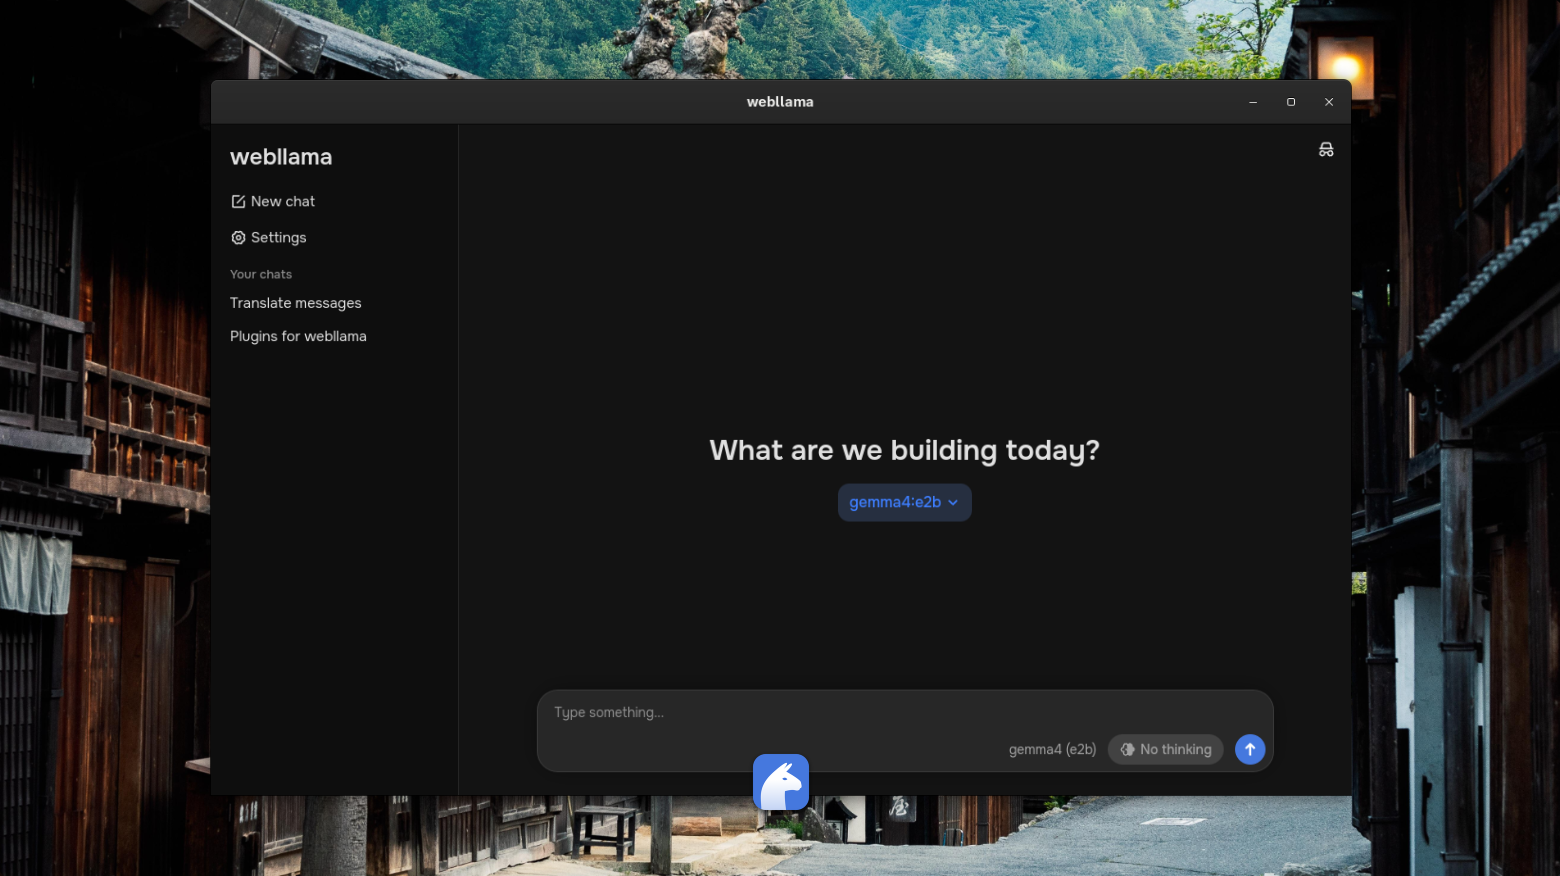
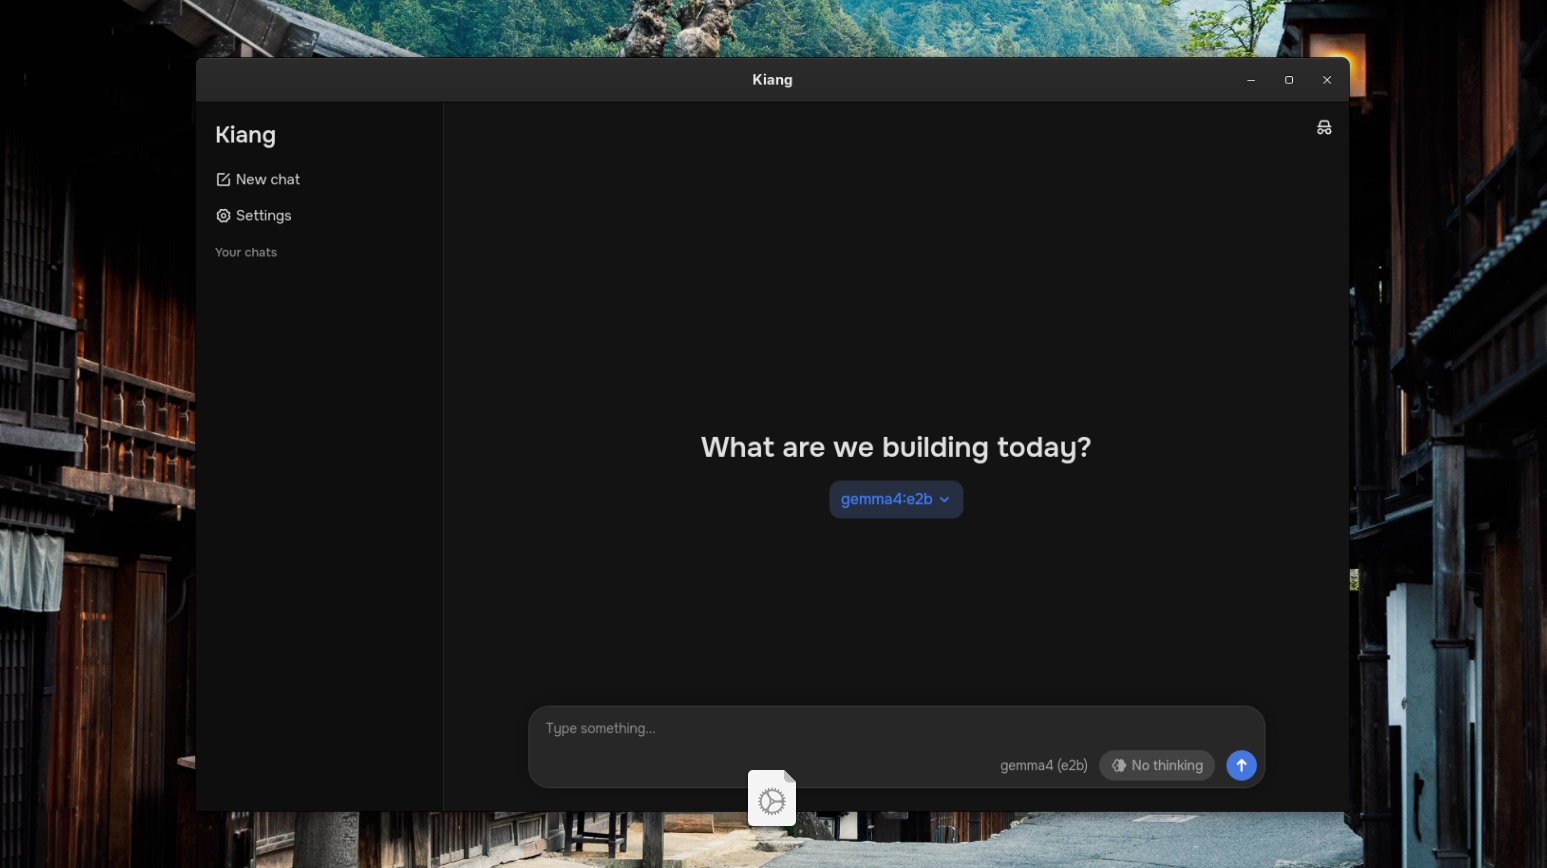
chore: project rename (#21)
Now the project is called "Kiang"

diff --git a/src/utils/http.ts b/src/utils/http.ts
@@ -2,7 +2,7 @@ import { fetch } from '@tauri-apps/plugin-http'
 import { IS_TAURI } from './runtime'
 
 /**
- * Use this feature for all HTTP requests in webllama. 
+ * Use this feature for all HTTP requests in kiang. 
  * - In a browser, it calls `window.fetch`; 
  * - in a Tauri environment, it uses the `http-tauri` plugin.
  * 

diff --git a/index.html b/index.html
@@ -3,7 +3,8 @@
   <head>
     <meta charset="UTF-8" />
     <meta name="viewport" content="width=device-width, initial-scale=1.0" />
-    <title>webllama</title>
+    <title>Kiang</title>
+    <link rel="icon" href="/src-tauri/icons/icon.ico" type="image/x-icon">
   </head>
   <body>
     <div id="app"></div>

diff --git a/src/components/ChatsBar.vue b/src/components/ChatsBar.vue
@@ -37,7 +37,7 @@ function openSettings() {
 <template>
     <div class="chats-bar">
         <div>
-            <h2 class="title">webllama</h2>
+            <h2 class="title">Kiang</h2>
             <div class="chat-bar-menu">
                 <div 
                     v-for="(button, index) in menuButtons"

diff --git a/README.md b/README.md
@@ -1,24 +1,24 @@
 <div align="center">
 
-<img src="./src-tauri/icons/128x128@2x.png" alt="webllama" width="112" height="112">
+<img src="./src-tauri/icons/128x128@2x.png" alt="Kiang" width="112" height="112">
 
-# webllama
+# Kiang WebUI
 
-![GitHub Repo stars](https://img.shields.io/github/stars/kirillmelcin96/webllama)
-![GitHub forks](https://img.shields.io/github/forks/kirillmelcin96/webllama)
-![GitHub watchers](https://img.shields.io/github/watchers/kirillmelcin96/webllama)
+![GitHub Repo stars](https://img.shields.io/github/stars/kirillmelcin96/kiang)
+![GitHub forks](https://img.shields.io/github/forks/kirillmelcin96/kiang)
+![GitHub watchers](https://img.shields.io/github/watchers/kirillmelcin96/kiang)
 
-![GitHub package.json version](https://img.shields.io/github/package-json/v/kirillmelcin96/webllama)
-![GitHub repo size](https://img.shields.io/github/repo-size/kirillmelcin96/webllama)
+![GitHub package.json version](https://img.shields.io/github/package-json/v/kirillmelcin96/kiang)
+![GitHub repo size](https://img.shields.io/github/repo-size/kirillmelcin96/kiang)
 
-![GitHub License](https://img.shields.io/github/license/kirillmelcin96/webllama)
-![GitHub last commit](https://img.shields.io/github/last-commit/kirillmelcin96/webllama)
-![Libraries.io dependency status for GitHub repo](https://img.shields.io/librariesio/github/kirillmelcin96/webllama)
+![GitHub License](https://img.shields.io/github/license/kirillmelcin96/kiang)
+![GitHub last commit](https://img.shields.io/github/last-commit/kirillmelcin96/kiang)
+<!-- ![Libraries.io dependency status for GitHub repo](https://img.shields.io/librariesio/github/kirillmelcin96/kiang) -->
 </div>
 
-**webllama** is a self-hosted web interface for Ollama local AI. Written in Vue.js. 
+**Kiang** is a user-friendly web interface for working with local models via the Ollama API. Written in Vue.js. 
 
-You can run **webllama** in your browser or as a standalone app (for Windows, MacOS and Linux). See the [Installation](#installation) section for all available options.
+You can run **Kiang** in your browser or as a standalone app (for Windows, MacOS and Linux). See the [Installation](#installation) section for all available options.
 
 Free and open source.
 
@@ -40,14 +40,15 @@ Free and open source.
 - [Is it vibecoded?](#is-it-a-vibecoded-app)
 - [Feedback](#feedback)
 - [License](#license)
+- [Disclaimer](#disclaimer)
 
 ## Overview
 
-**webllama** is built with Vite + Vue 3. It runs right in your browser. **webllama** can automatically detect and connect to Ollama right out of the box.
+**Kiang** is built with Vite + Vue 3. It runs right in your browser. **Kiang** can automatically detect and connect to Ollama API right out of the box.
 
-Your chats are stored directly in your browser using IndexedDB, allowing **webllama** to persist your conversation history locally without relying on a backend. User settings are stored in LocalStorage for quick and persistent access.
+Your chats are stored directly in your browser using IndexedDB, allowing **Kiang** to persist your conversation history locally without relying on a backend. User settings are stored in LocalStorage for quick and persistent access.
 
-Starting with **webllama v.1.0.0**, you can also install it as a standalone app for Windows, macOS, and Linux. Currently, this is an experimental feature. Standalone app is built with [Tauri](https://v2.tauri.app/) instead of Electron to ensure its security and minimize its size as much as possible.
+Starting with **Kiang v.1.0.0**, you can also install it as a standalone app for Windows, macOS, and Linux. Currently, this is an experimental feature. Standalone app is built with [Tauri](https://v2.tauri.app/) instead of Electron to ensure its security and minimize its size as much as possible.
 
 ## Features
 
@@ -63,7 +64,7 @@ Starting with **webllama v.1.0.0**, you can also install it as a standalone app 
 ### 💬 Models and Chat
 
 - **Works offline** - Run and interact with downloaded models through Ollama without an Internet connection.
-- **Private** - Your conversations stay on your device. We don't collect information about your device, conversations, or how you use the app. The only external request made by webllama is to this GitHub repository for checking app updates.
+- **Private** - Your conversations stay on your device. We don't collect information about your device, conversations, or how you use the app. The only external request made by **Kiang** is to this GitHub repository for checking app updates.
 - **Chat history storage** - All your conversations are stored directly in your browser (IndexedDB).
 - **“Incognito Mode”** - This allows you to have temporary chats without saving them to your history.
 - **“Thinking Mode”** - Enable thinking for models that support it. Thinking may improve reasoning on complex tasks but can increase response time.
@@ -75,7 +76,7 @@ Starting with **webllama v.1.0.0**, you can also install it as a standalone app 
 
 ## ⚠ Before You Start
 
-**webllama** requires [Ollama](https://ollama.com) to be installed and running on your device.
+**Kiang** requires [Ollama](https://ollama.com) to be installed and running on your device.
 
 If you already have Ollama installed, you can skip this section and proceed to [installation](#installation).
 
@@ -99,11 +100,11 @@ See the full list of available models on the [Ollama library](https://ollama.com
 
 ![App preview](./images/app_preview.png)
 
-You can download and install the latest **webllama** release for your operating system from the [Releases Page](https://github.com/kirillmelcin96/webllama/releases).
+You can download and install the latest **Kiang** release for your operating system from the [Releases Page](https://github.com/kirillmelcin96/kiang/releases).
 
-> Note: Currently, **webllama** releases are not code-signed. Your operating system may display a security warning when you launch the application.
+> Note: Currently, **Kiang** releases are not code-signed. Your operating system may display a security warning when you launch the application.
 
-If you prefer not to use an unsigned application, you can run **webllama** directly in your browser:
+If you prefer not to use an unsigned application, you can run **Kiang** directly in your browser:
 
 ### As a webpage
 
@@ -120,8 +121,8 @@ You can run the frontend in your browser by building it from the source code.
 
 1. Clone the repository
 ```bash
-git clone https://github.com/kirillmelcin96/webllama.git
-cd webllama
+git clone https://github.com/kirillmelcin96/kiang.git
+cd kiang
 ```
 
 2. Install dependencies using `pnpm`
@@ -154,17 +155,17 @@ Some of the major planned features:
 
 ### Code
 
-If you'd like to help implement a feature, feel free to do it! You can find currently planned and requested features in the [issues](https://github.com/kirillmelcin96/webllama/issues). I would really appreciate any help.
+If you'd like to help implement a feature, feel free to do it! You can find currently planned and requested features in the [issues](https://github.com/kirillmelcin96/kiang/issues). I would really appreciate any help.
 
 I strongly encourage contributors to minimize the use of AI-generated code. Commits containing ONLY AI-generated code will not be accepted. If you’ve used AI to write any code snippets or functions, please mark them with a [special comment](#is-it-a-vibecoded-app).
 
 ### New ideas / Requests
 
-If you have an idea for a feature, please create a new [issue](https://github.com/kirillmelcin96/webllama/issues) by clicking the “New Issue” button > ✨ Feature request.
+If you have an idea for a feature, please create a new [issue](https://github.com/kirillmelcin96/kiang/issues) by clicking the “New Issue” button > ✨ Feature request.
 
 ### Found a bug?
 
-If you want to report a bug, please create a new [issue](https://github.com/kirillmelcin96/webllama/issues) by clicking the “New Issue” button > 🐛 Bug report.
+If you want to report a bug, please create a new [issue](https://github.com/kirillmelcin96/kiang/issues) by clicking the “New Issue” button > 🐛 Bug report.
 
 ## Is it a vibecoded app?
 
@@ -188,7 +189,7 @@ kerekerekerek@hotmail.com
 
 ### Support
 
-If you find **webllama** useful and would like to support its development, you can send a donation ❤
+If you find **Kiang** useful and would like to support its development, you can send a donation ❤
 
 **BTC:** `bc1qmh3qkvsdze7rrdz3mk6nfrulsr9x8gr3mexgnk`
 
@@ -198,17 +199,17 @@ If you find **webllama** useful and would like to support its development, you c
 
 **GRAM (ex TON):** `UQAlDlzMb59T80REEF_v_lYPkGdXnsU6bFbjFOhgTgySS623`
 
-> **webllama** is a free app. Donations are completely optional and are not required to use **webllama**.
+> **Kiang** is a free app. Donations are completely optional and are not required to use **Kiang**.
 
 ## License
 
-**webllama** is licensed under the Apache License 2.0
+**Kiang** is licensed under the Apache License 2.0
 
 Copyright 2026 Kirill Melcin
 
 ### Third-Party Dependencies
 
-**webllama** additionally contains code/libraries with the following licenses: MIT, ISC, 0BSD, CC0-1.0, Apache License 2.0, BSD-2-Clause, BSD 3-Clause.
+**Kiang** additionally contains code/libraries with the following licenses: MIT, ISC, 0BSD, CC0-1.0, Apache License 2.0, BSD-2-Clause, BSD 3-Clause.
 
 To see the complete list of dependencies, their licenses, and copyrights, please refer to the `THIRD-PARTY-NOTICES.txt` file.
 
@@ -217,3 +218,7 @@ This file was automatically generated using the [@quantco/pnpm-licenses](https:/
 ```bash
 pnpm notices
 ```
+
+## Disclaimer
+
+Ollama is a registered trademark (or property) of its respective owners. The **Kiang** web UI is an independent open-source software that is not associated with, affiliated with, or sponsored by the creators of Ollama.
